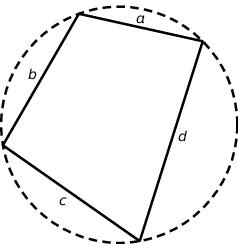
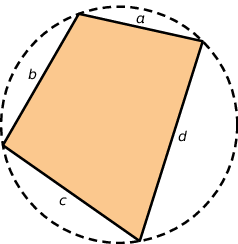
Fixing image

diff --git a/Toetsoefeningen/39 Formule van Brahmagupta/description/media/image.tex b/Toetsoefeningen/39 Formule van Brahmagupta/description/media/image.tex
@@ -11,6 +11,7 @@
 
 \begin{document}
 	\begin{tikzpicture}[scale=0.75, main, line join=bevel]
+		\fill[BurntOrange, semitransparent] (45:2) -- (110:2) -- (190:2) -- (280:2) -- cycle;
 		\draw[thick, densely dashed] (0,0) circle (2cm);
 		\draw[thick, main] (45:2) -- (110:2) -- (190:2) -- (280:2) -- cycle;
 		\draw[font=\tiny, main] (45:2) to node [midway, yshift=3pt] {$a$} (110:2);
